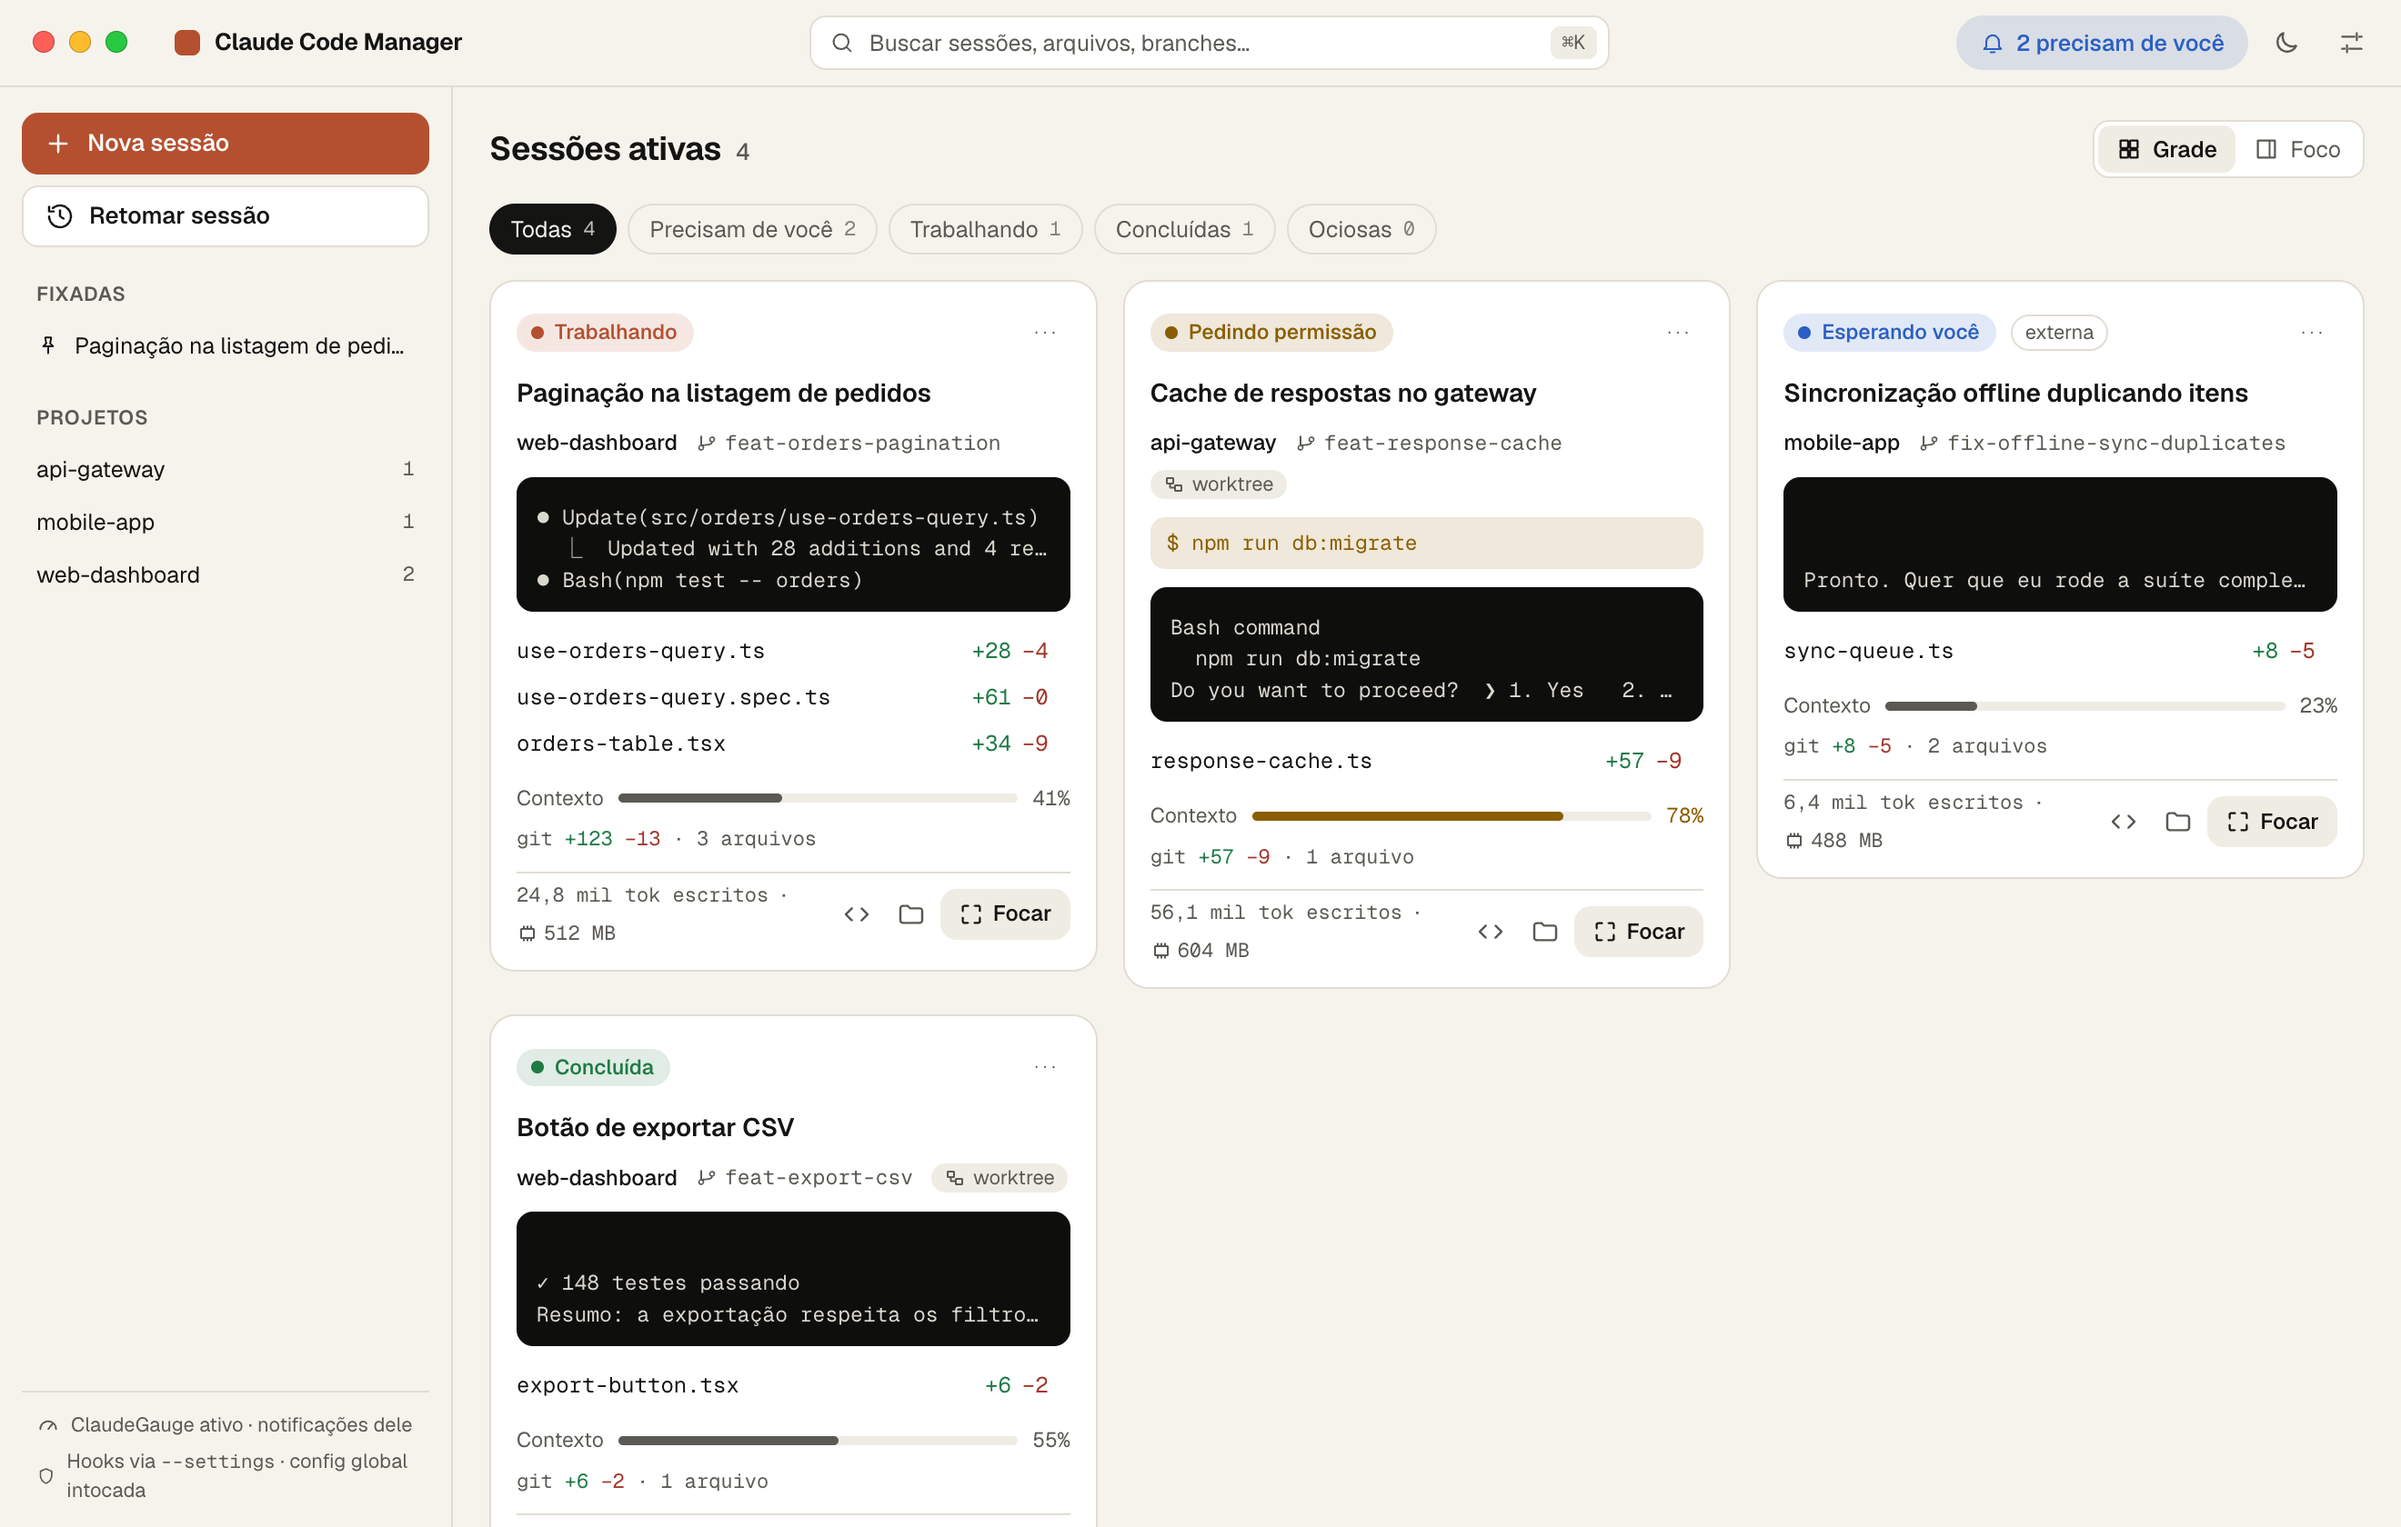
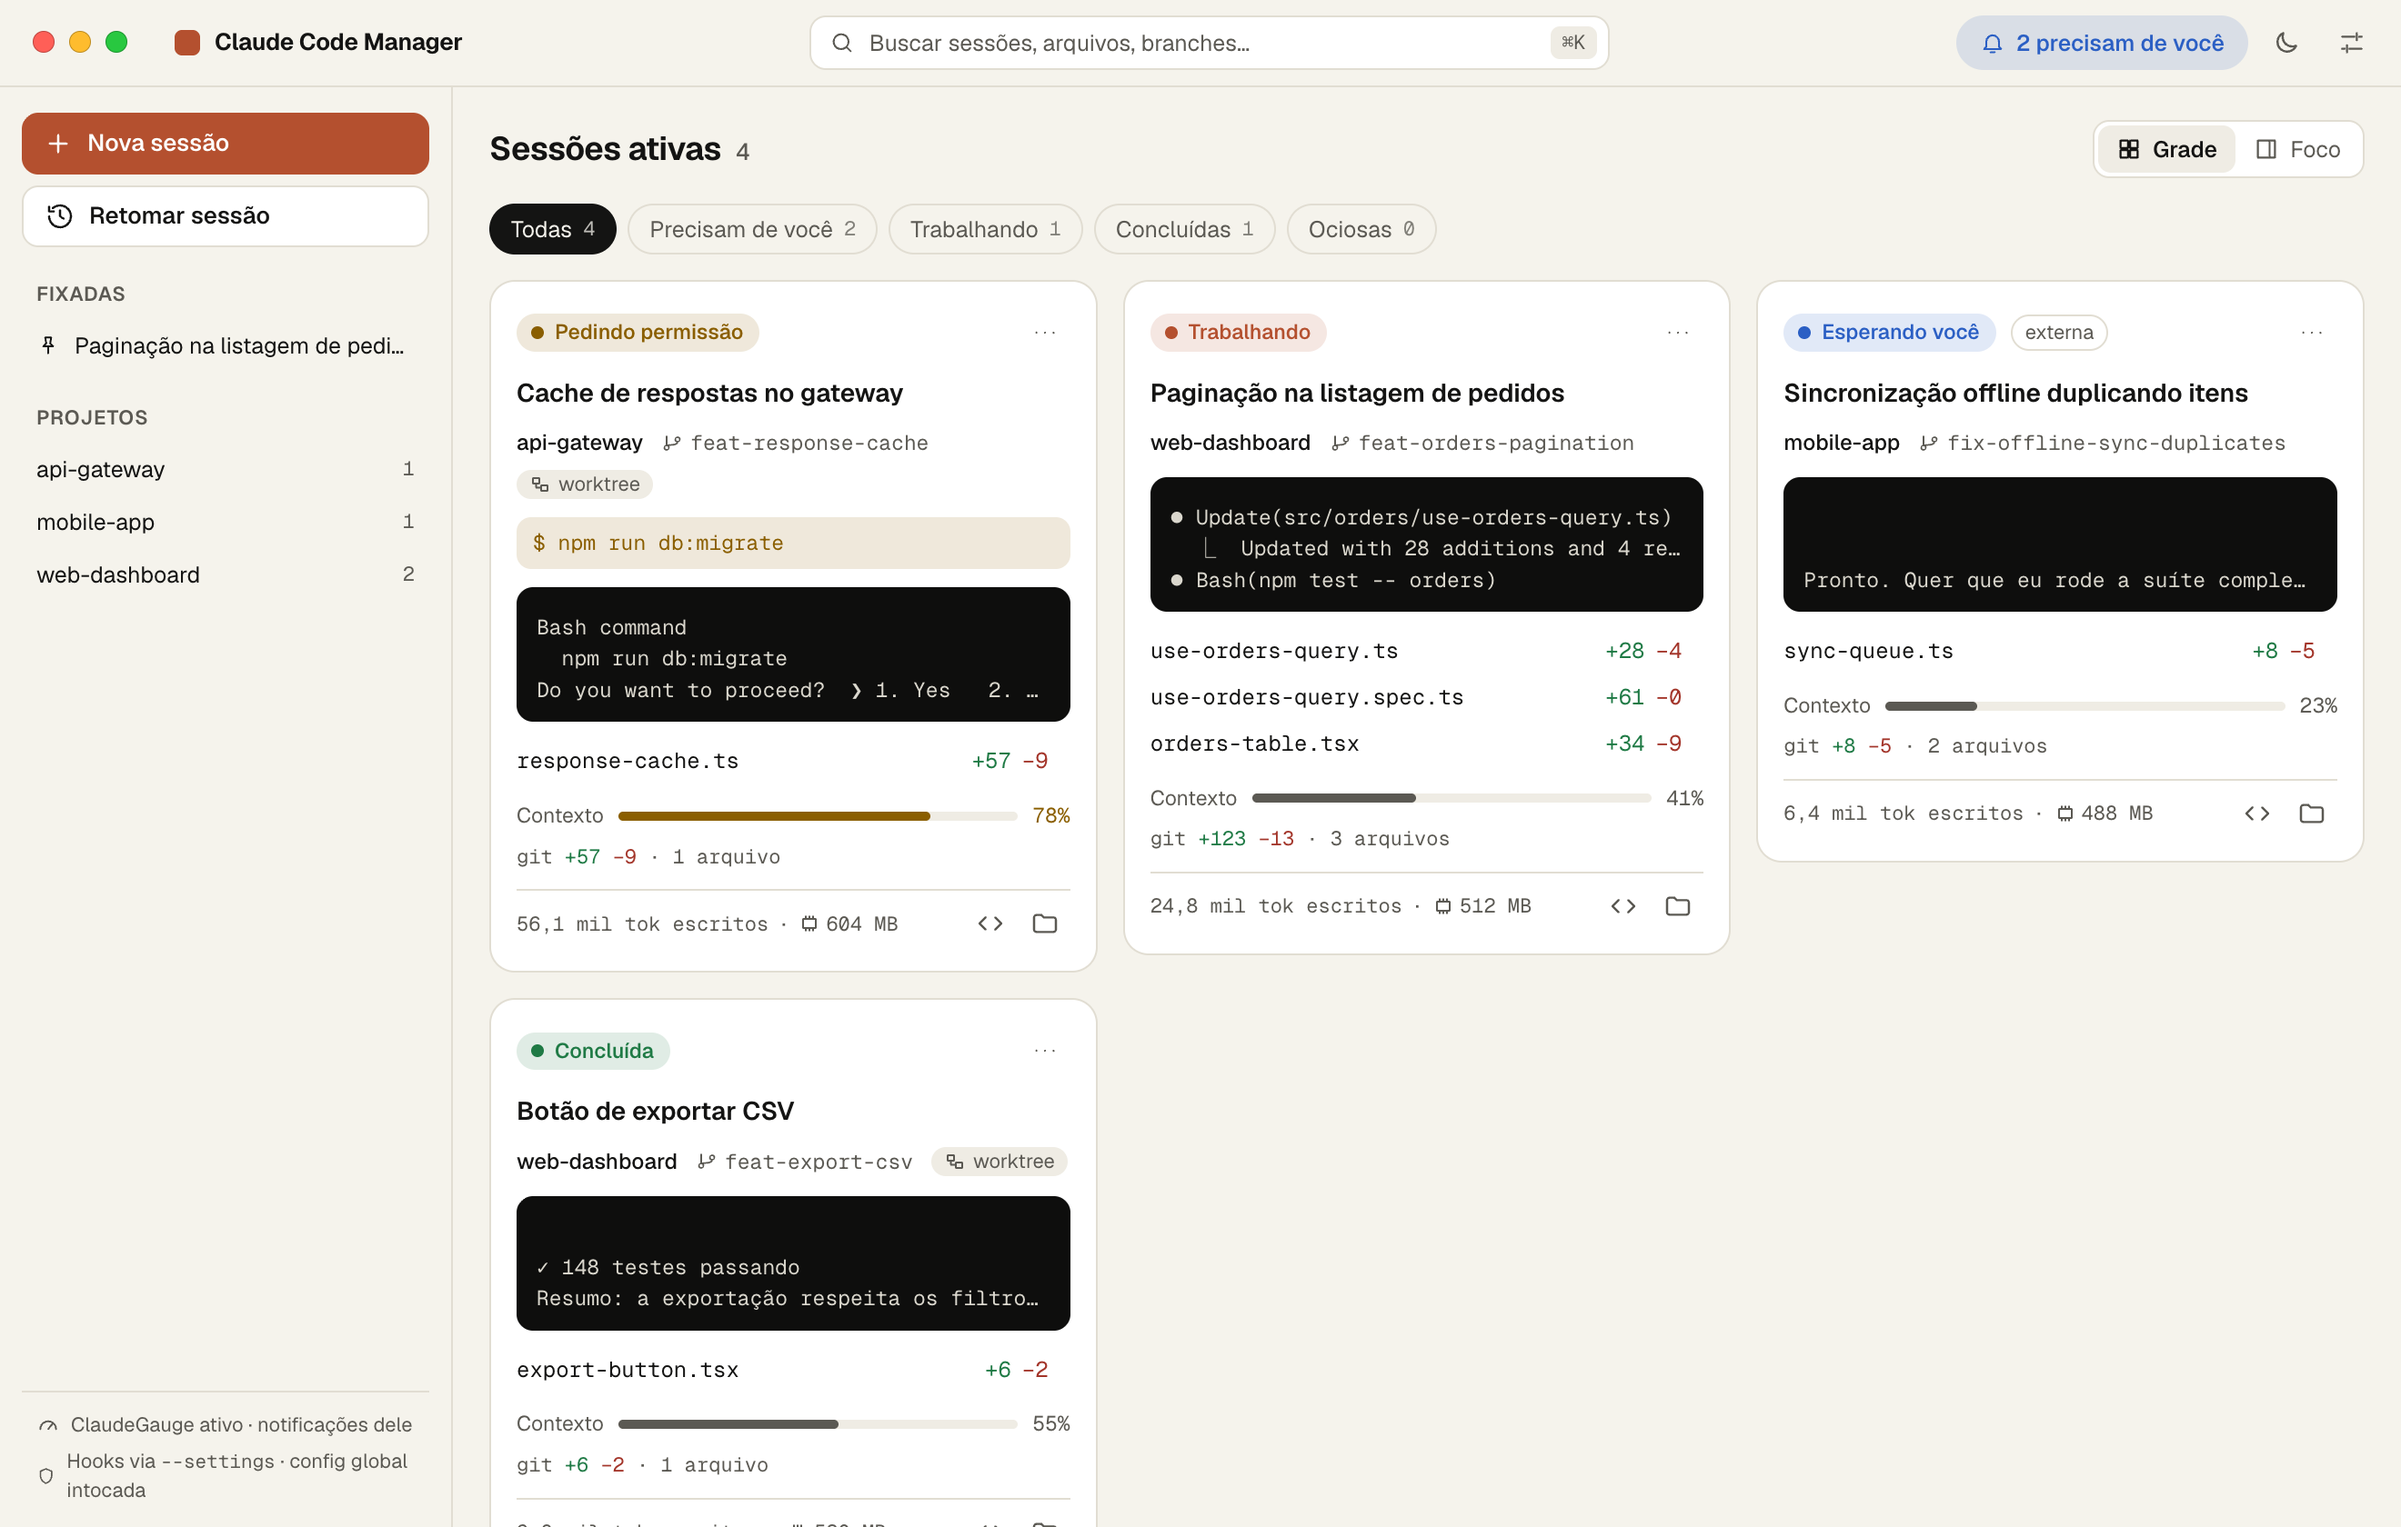
fix: previa do card com borda rotulada e clique no card abre o foco
- a previa reconhece a caixa de prompt mesmo com texto dentro da borda (borderText do Ink do Claude Code)
- clicar em qualquer area livre do card abre o foco; botoes, menu, arrastar e selecao de texto seguem como antes
- o titulo do card vira o botao de teclado e o botao Focar sai
- capturas da grade refeitas

diff --git a/src/lib/components/sessions/SessionCard.svelte b/src/lib/components/sessions/SessionCard.svelte
@@ -2,6 +2,7 @@
   import type { LiveSessionView } from '../../api/types';
   import { formatMemory, formatTokens } from '../../format';
   import { openInFinder, openInVsCode, openPr } from '../../sessions/actions';
+  import { cardClickFocuses, isInteractiveTarget } from '../../sessions/card-click';
   import { gitStatusStore } from '../../stores/git-status.svelte';
   import Icon from '../common/Icon.svelte';
   import CardMenu, { type MenuAction } from './CardMenu.svelte';
@@ -47,9 +48,23 @@
   $effect(() => {
     gitStatusStore.refresh(session.cwd);
   });
+
+  let pressedAt: { x: number; y: number } | null = null;
+
+  function rememberPress(event: MouseEvent): void {
+    pressedAt = { x: event.clientX, y: event.clientY };
+  }
+
+  function focusFromCard(event: MouseEvent): void {
+    const travel = pressedAt ? Math.hypot(event.clientX - pressedAt.x, event.clientY - pressedAt.y) : 0;
+    pressedAt = null;
+    const hasSelection = (window.getSelection()?.toString() ?? '') !== '';
+    if (cardClickFocuses({ fromInteractive: isInteractiveTarget(event.target), pointerTravel: travel, hasSelection })) onFocus(session.key);
+  }
 </script>
 
-<article class="card" class:hibernated={session.hibernated} aria-label={session.title}>
+<!-- svelte-ignore a11y_click_events_have_key_events, a11y_no_noninteractive_element_interactions (the title button is the keyboard path; the whole card is a larger mouse target) -->
+<article class="card" class:hibernated={session.hibernated} aria-label={session.title} onmousedown={rememberPress} onclick={focusFromCard}>
   <header class="head">
     <StatusBadge status={session.status} hibernated={session.hibernated} />
     {#if session.origin === 'external'}
@@ -65,7 +80,7 @@
     </span>
   </header>
 
-  <h3 class="title">{session.title}</h3>
+  <h3 class="title"><button type="button" class="title-button" onclick={() => onFocus(session.key)}>{session.title}</button></h3>
 
   <div class="meta">
     <span class="repo">{session.repo}</span>
@@ -112,9 +127,6 @@
       <button type="button" class="icon-button" aria-label="Abrir no Finder" title="Abrir no Finder" onclick={() => void openInFinder(session.cwd)}>
         <Icon name="folder" />
       </button>
-      <button type="button" class="focus-button" onclick={() => onFocus(session.key)}>
-        <Icon name="focus" size={14} />Focar
-      </button>
     </span>
   </footer>
 </article>
@@ -123,6 +135,7 @@
   .card {
     display: flex;
     flex-direction: column;
+    cursor: pointer;
     gap: 10px;
     padding: 14px 14px 12px;
     border: 1px solid var(--border);
@@ -167,9 +180,27 @@
     font-size: 14px;
     font-weight: 600;
     line-height: 1.3;
+  }
+
+  .title-button {
+    display: block;
+    width: 100%;
+    padding: 0;
+    border: 0;
+    background: none;
+    color: inherit;
+    font: inherit;
+    text-align: left;
     overflow: hidden;
     text-overflow: ellipsis;
     white-space: nowrap;
+    cursor: pointer;
+  }
+
+  .title-button:focus-visible {
+    outline: 2px solid var(--focus-ring);
+    outline-offset: 2px;
+    border-radius: 4px;
   }
 
   .meta {
@@ -270,8 +301,7 @@
     gap: 2px;
   }
 
-  .icon-button,
-  .focus-button {
+  .icon-button {
     display: inline-flex;
     align-items: center;
     justify-content: center;
@@ -291,16 +321,7 @@
     width: 28px;
   }
 
-  .focus-button {
-    padding: 0 10px;
-    color: var(--text);
-    background: var(--surface-2);
-    font-size: 12px;
-    font-weight: 550;
-  }
-
-  .icon-button:hover,
-  .focus-button:hover {
+  .icon-button:hover {
     background: var(--surface-2);
     color: var(--text);
   }

diff --git a/src/lib/components/sessions/SessionCard.test.ts b/src/lib/components/sessions/SessionCard.test.ts
@@ -39,11 +39,32 @@ describe('SessionCard', () => {
     expect(container.querySelector('.meter')).toHaveClass('high');
   });
 
-  it('calls onFocus with the session key', async () => {
+  it('opens the session when the card is clicked anywhere but its controls', async () => {
     const onFocus = vi.fn();
     render(SessionCard, { session: mockSession(0), onFocus });
-    await fireEvent.click(screen.getByRole('button', { name: /Focar/ }));
+    expect(screen.queryByRole('button', { name: /Focar/ })).not.toBeInTheDocument();
+    await fireEvent.click(screen.getByText('feat-orders-pagination'));
+    expect(onFocus).toHaveBeenCalledOnce();
     expect(onFocus).toHaveBeenCalledWith('mock-1');
+    await fireEvent.click(screen.getByRole('button', { name: 'Abrir no VS Code' }));
+    await fireEvent.click(screen.getByRole('button', { name: 'Mais ações' }));
+    expect(onFocus).toHaveBeenCalledOnce();
+  });
+
+  it('opens the session from the keyboard through the title, once', async () => {
+    const onFocus = vi.fn();
+    render(SessionCard, { session: mockSession(0), onFocus });
+    await fireEvent.click(screen.getByRole('button', { name: 'Paginação na listagem de pedidos' }));
+    expect(onFocus).toHaveBeenCalledOnce();
+  });
+
+  it('does not open the session after the card was dragged', async () => {
+    const onFocus = vi.fn();
+    render(SessionCard, { session: mockSession(0), onFocus });
+    const repo = screen.getByText('feat-orders-pagination');
+    await fireEvent.mouseDown(repo, { clientX: 10, clientY: 10 });
+    await fireEvent.click(repo, { clientX: 60, clientY: 14 });
+    expect(onFocus).not.toHaveBeenCalled();
   });
 
   it('counts every touched file, not only the ones listed on the card', () => {

diff --git a/src/lib/sessions/card-click.test.ts b/src/lib/sessions/card-click.test.ts
@@ -1,0 +1,26 @@
+import { describe, expect, it } from 'vitest';
+import { cardClickFocuses, isInteractiveTarget } from './card-click';
+
+describe('cardClickFocuses', () => {
+  it('opens the session for a plain click on the card', () => {
+    expect(cardClickFocuses({ fromInteractive: false, pointerTravel: 0, hasSelection: false })).toBe(true);
+    expect(cardClickFocuses({ fromInteractive: false, pointerTravel: 4, hasSelection: false })).toBe(true);
+  });
+
+  it('leaves buttons, drags and text selection alone', () => {
+    expect(cardClickFocuses({ fromInteractive: true, pointerTravel: 0, hasSelection: false })).toBe(false);
+    expect(cardClickFocuses({ fromInteractive: false, pointerTravel: 12, hasSelection: false })).toBe(false);
+    expect(cardClickFocuses({ fromInteractive: false, pointerTravel: 0, hasSelection: true })).toBe(false);
+  });
+});
+
+describe('isInteractiveTarget', () => {
+  it('recognizes controls and anything inside them', () => {
+    document.body.innerHTML = '<article><p id="text">x</p><button><svg id="icon"></svg></button><div role="menu"><span role="menuitem" id="item">a</span></div><a href="#" id="link">l</a></article>';
+    expect(isInteractiveTarget(document.getElementById('text'))).toBe(false);
+    expect(isInteractiveTarget(document.getElementById('icon'))).toBe(true);
+    expect(isInteractiveTarget(document.getElementById('item'))).toBe(true);
+    expect(isInteractiveTarget(document.getElementById('link'))).toBe(true);
+    expect(isInteractiveTarget(null)).toBe(false);
+  });
+});

diff --git a/src/lib/sessions/card-click.ts b/src/lib/sessions/card-click.ts
@@ -1,0 +1,18 @@
+/** Past this, the pointer was dragging the card to reorder it, not clicking it. */
+const DRAG_THRESHOLD_PX = 5;
+
+const INTERACTIVE = 'button, a, input, select, textarea, [role="menu"], [role="menuitem"]';
+
+export interface CardClick {
+  fromInteractive: boolean;
+  pointerTravel: number;
+  hasSelection: boolean;
+}
+
+export function cardClickFocuses(click: CardClick): boolean {
+  return !click.fromInteractive && click.pointerTravel <= DRAG_THRESHOLD_PX && !click.hasSelection;
+}
+
+export function isInteractiveTarget(target: EventTarget | null): boolean {
+  return target instanceof Element && target.closest(INTERACTIVE) !== null;
+}

diff --git a/src-tauri/src/pty/preview.rs b/src-tauri/src/pty/preview.rs
@@ -55,9 +55,11 @@ fn prompt_box_start(lines: &[&str]) -> Option<usize> {
         .map(|pair| pair[0])
 }
 
+/// Mostly `─`: Claude Code may write a label into the border (Ink's `borderText`).
 fn is_rule(line: &str) -> bool {
-    let trimmed = line.trim();
-    trimmed.chars().count() >= MIN_RULE_WIDTH && trimmed.chars().all(|character| character == '─')
+    let visible = line.chars().filter(|character| !character.is_whitespace()).count();
+    let dashes = line.chars().filter(|character| *character == '─').count();
+    dashes >= MIN_RULE_WIDTH && dashes * 2 >= visible
 }
 
 fn is_prompt(line: &str) -> bool {
@@ -136,6 +138,18 @@ mod tests {
             screen.preview_lines(),
             vec!["\u{23fa} Update(src/orders/table.tsx)", "  \u{23bf} Updated with 12 additions", "", "\u{273b} Working\u{2026} (esc to interrupt)"]
         );
+    }
+
+    /// Claude Code can write a label into the prompt box border (Ink's `borderText`), at either end.
+    #[test]
+    fn finds_the_prompt_box_when_its_border_carries_a_label() {
+        let rule = "\u{2500}".repeat(60);
+        for top in [format!("{} Projetos (meta outubro) \u{2500}\u{2500}", "\u{2500}".repeat(35)), format!("Projetos {}", "\u{2500}".repeat(51))] {
+            let mut screen = TerminalScreen::new(10, 60);
+            let text = format!("\u{23fa} Update(src/a.ts)\r\n  \u{23bf} Updated\r\n\r\n{top}\r\n\u{276f} \r\n{rule}\r\n  \u{25b8}\u{25b8} auto mode on");
+            screen.process(text.as_bytes());
+            assert_eq!(screen.preview_lines(), vec!["\u{23fa} Update(src/a.ts)", "  \u{23bf} Updated"], "top border: {top}");
+        }
     }
 
     #[test]

diff --git a/README.md b/README.md
@@ -26,7 +26,7 @@ O app resolve isso lendo o que o próprio Claude Code já grava em disco, sem mu
 
 ## O que ele faz
 
-**Sessões em grade.** Cada card mostra status, repositório, branch, o que o Claude está fazendo no terminal, os arquivos alterados (+/−), o quanto da janela de contexto já foi usado, os tokens que o Claude escreveu e a memória. Os filtros separam as que precisam de você das que estão trabalhando ou já terminaram, e os cards podem ser reordenados arrastando.
+**Sessões em grade.** Cada card mostra status, repositório, branch, o que o Claude está fazendo no terminal, os arquivos alterados (+/−), o quanto da janela de contexto já foi usado, os tokens que o Claude escreveu e a memória. Os filtros separam as que precisam de você das que estão trabalhando ou já terminaram, e os cards podem ser reordenados arrastando. Clicar num card abre a sessão no modo foco.
 
 **Por que mudou isso?** Ao passar o mouse (ou focar com o teclado) num arquivo, aparece o diff daquela edição e o texto que o assistente escreveu logo antes de fazê-la. Tudo é lido do transcript local.
 
